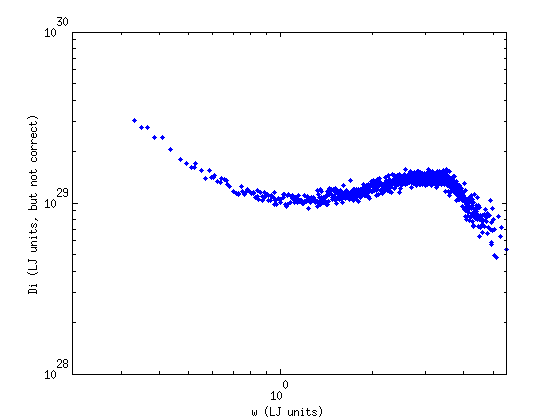
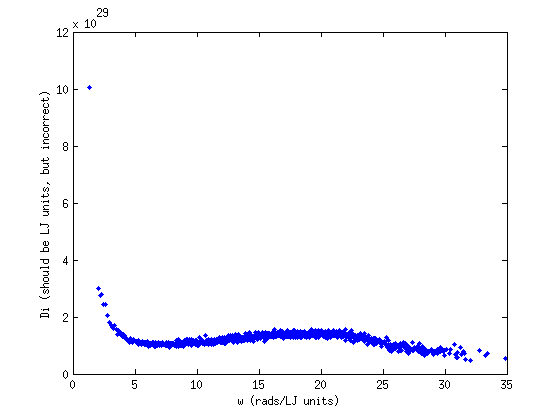
added 4.0.7 result

diff --git a/matlab/m_gulp_af_lj_readDi.m b/matlab/m_gulp_af_lj_readDi.m
@@ -10,8 +10,8 @@ con.c
 %gets to lj units
 factor.lj = lj.tau/lj.sigma^2
 Di_convert(:,3) = Di(:,3)*factor.gulp*factor.lj;
-Di_convert(:,2) = Di(:,2)*con.c*lj.tau;
-loglog(Di_convert(:,2),Di_convert(:,3),'.')
+Di_convert(:,2) = Di(:,2)*con.c*lj.tau*2*pi;
+plot(Di_convert(:,2),Di_convert(:,3),'.')
 end
 
 
